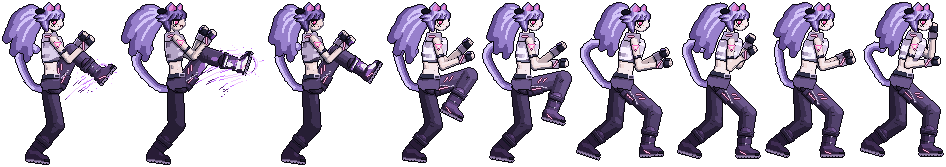
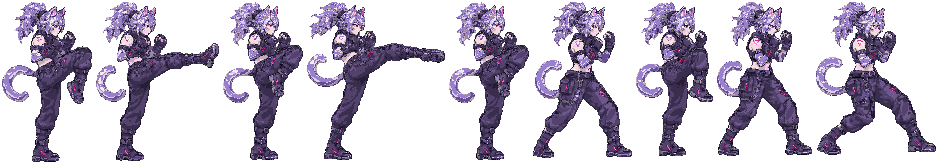
feat(feline) : le coup de pied haut (standHeavy) vient de sa planche dessinée
9 frames depuis Pack_01 (02_Pieds) : appui, genou, chambre, extension (active),
repli, retour en garde. Pendant le coup, le pied d'appui est calé pour que le pied
tendu s'arrête au bout de la hitbox (52 px) ; les données de combat sont intactes.

Claude-Session: https://claude.ai/code/session_01JBLzLMjZS6VPwWpKajS2YB

diff --git a/src/art/feline/cells.ts b/src/art/feline/cells.ts
@@ -237,35 +237,19 @@ export const FELINE_CELLS: Readonly<Record<string, Cell>> = {
     ],
   },
   standHeavy: {
-    width: 159,
-    height: 168,
-    anchor: { x: 56, y: 164 },
+    width: 162,
+    height: 164,
+    anchor: { x: 56, y: 161 },
     frames: [
-      { x: 6, y: 9, width: 91, height: 156 },
-      { x: 12, y: 4, width: 91, height: 161 },
-      { x: 13, y: 2, width: 115, height: 163 },
-      { x: 14, y: 2, width: 143, height: 163 },
-      { x: 22, y: 2, width: 115, height: 163 },
-      { x: 17, y: 4, width: 90, height: 161 },
-      { x: 2, y: 7, width: 97, height: 159 },
-      { x: 2, y: 10, width: 84, height: 155 },
-      { x: 2, y: 8, width: 84, height: 157 },
-    ],
-  },
-  'fx/standHeavy': {
-    width: 138,
-    height: 123,
-    anchor: { x: 27, y: 120 },
-    frames: [
-      { x: 0, y: 0, width: 0, height: 0 },
-      { x: 0, y: 0, width: 0, height: 0 },
-      { x: 0, y: 0, width: 0, height: 0 },
-      { x: 9, y: 2, width: 127, height: 119 },
-      { x: 2, y: 7, width: 124, height: 113 },
-      { x: 0, y: 0, width: 0, height: 0 },
-      { x: 0, y: 0, width: 0, height: 0 },
-      { x: 0, y: 0, width: 0, height: 0 },
-      { x: 0, y: 0, width: 0, height: 0 },
+      { x: 2, y: 9, width: 120, height: 153 },
+      { x: 10, y: 2, width: 90, height: 160 },
+      { x: 13, y: 4, width: 80, height: 158 },
+      { x: 22, y: 4, width: 138, height: 158 },
+      { x: 20, y: 3, width: 123, height: 159 },
+      { x: 13, y: 4, width: 80, height: 158 },
+      { x: 18, y: 8, width: 77, height: 154 },
+      { x: 5, y: 8, width: 95, height: 154 },
+      { x: 6, y: 6, width: 99, height: 156 },
     ],
   },
   crouchLight: {
